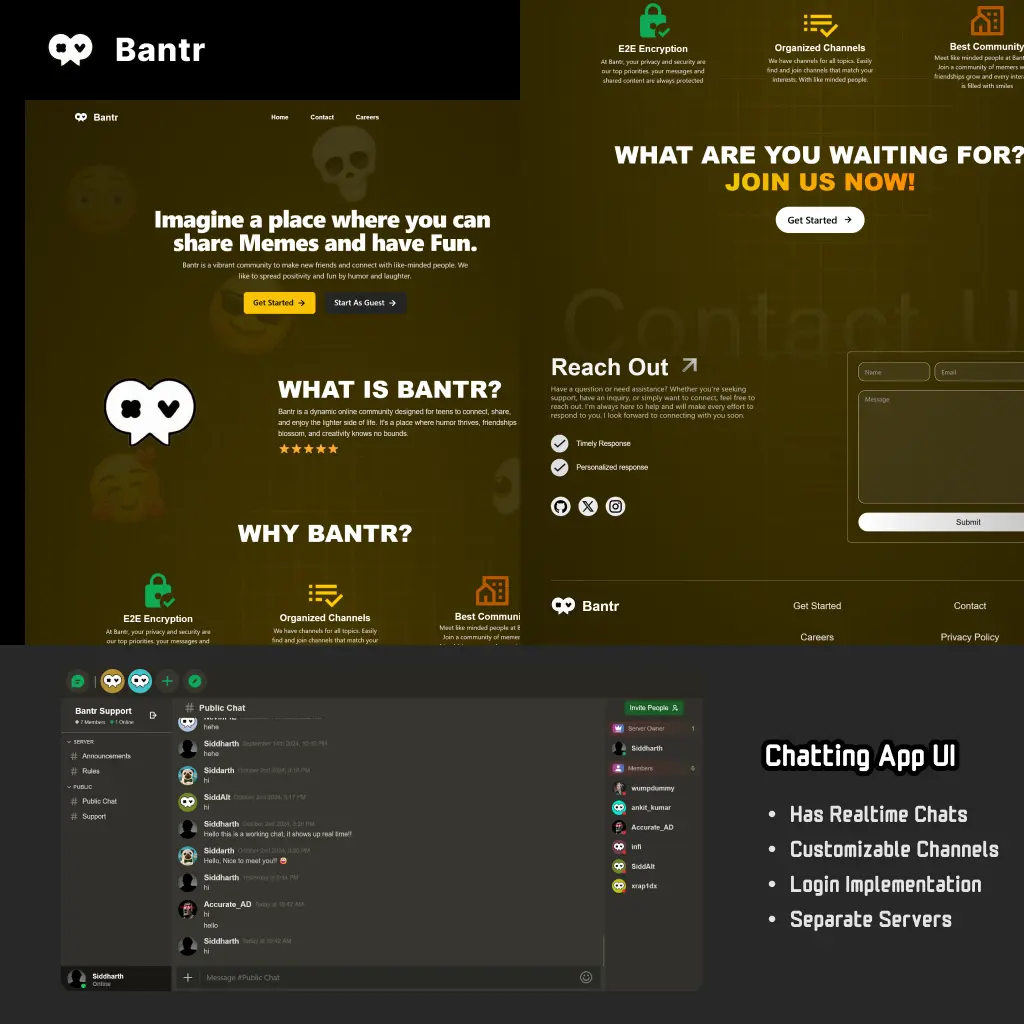
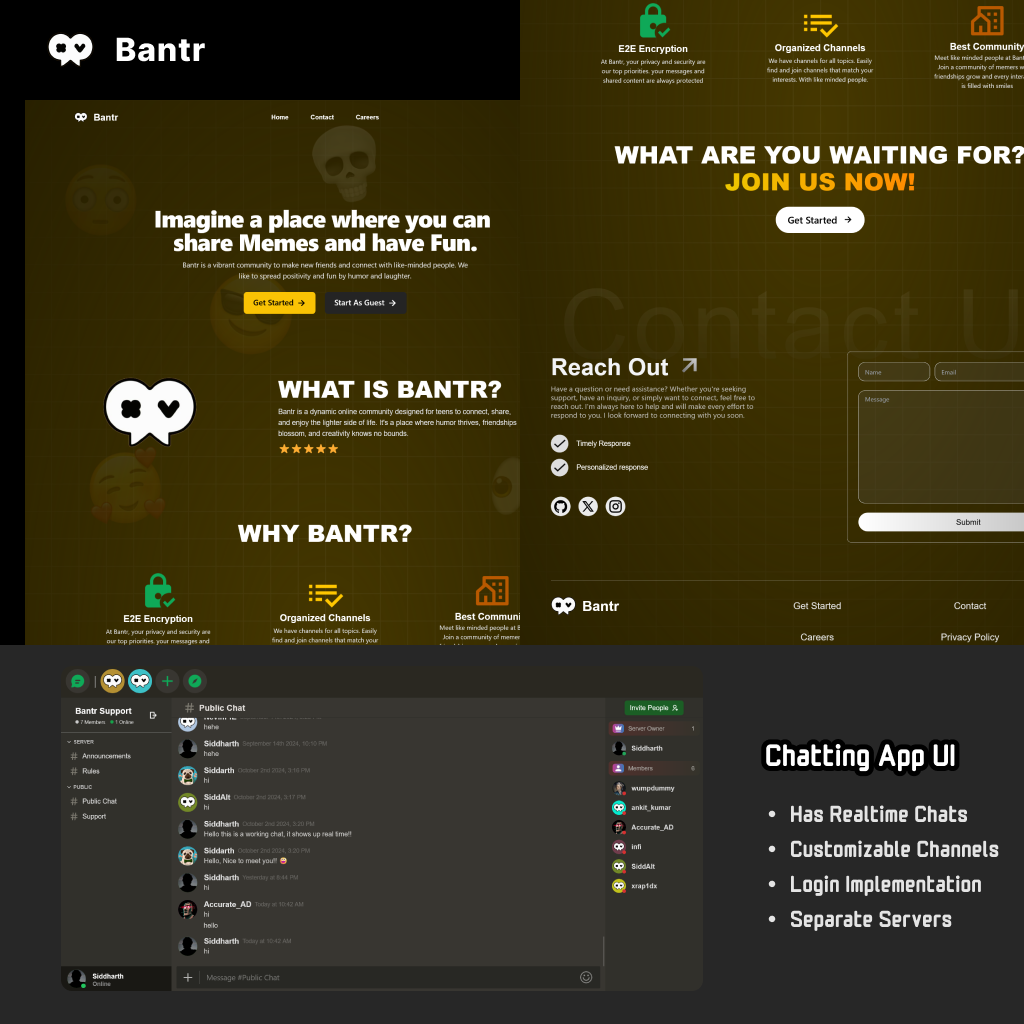
optimize project images

diff --git a/src/components/Projects.jsx b/src/components/Projects.jsx
@@ -5,11 +5,11 @@ const Projects = ({ reff }) => {
   const [isHovered, setIsHovered] = useState(false);
 
   const items = [
-    { image: 'project_1.png', description: 'Our Agency Website' },
-    { image: 'project_2.png', description: 'Portfolio Website' },
-    { image: 'project_5.png', description: 'ZenosAI' },
-    { image: 'project_3.png', description: 'Bantr - Chatting App' },
-    { image: 'project_4.png', description: '53WEST53' },
+    { image: 'project_1.webp', description: 'Our Agency Website' },
+    { image: 'project_2.webp', description: 'Portfolio Website' },
+    { image: 'project_5.webp', description: 'ZenosAI' },
+    { image: 'project_3.webp', description: 'Bantr - Chatting App' },
+    { image: 'project_4.webp', description: '53WEST53' },
   ];
 
   return (
